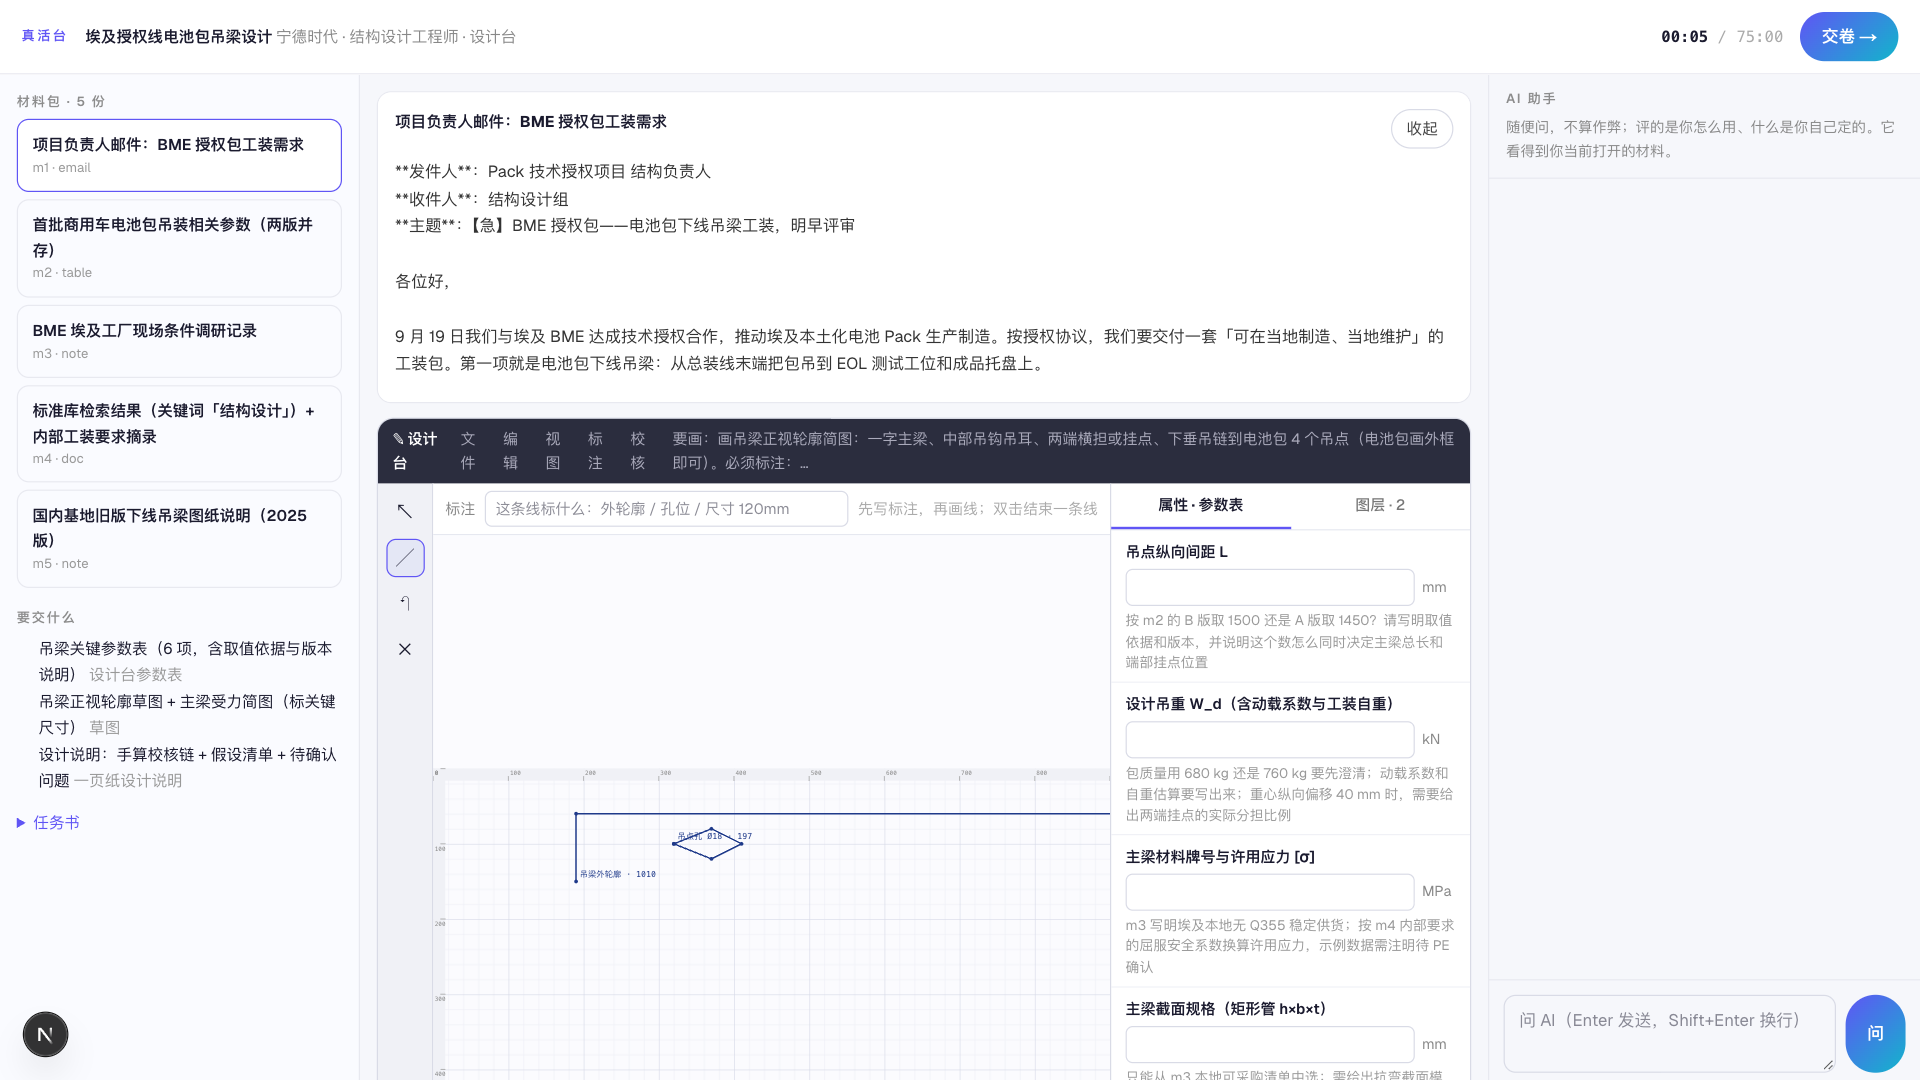
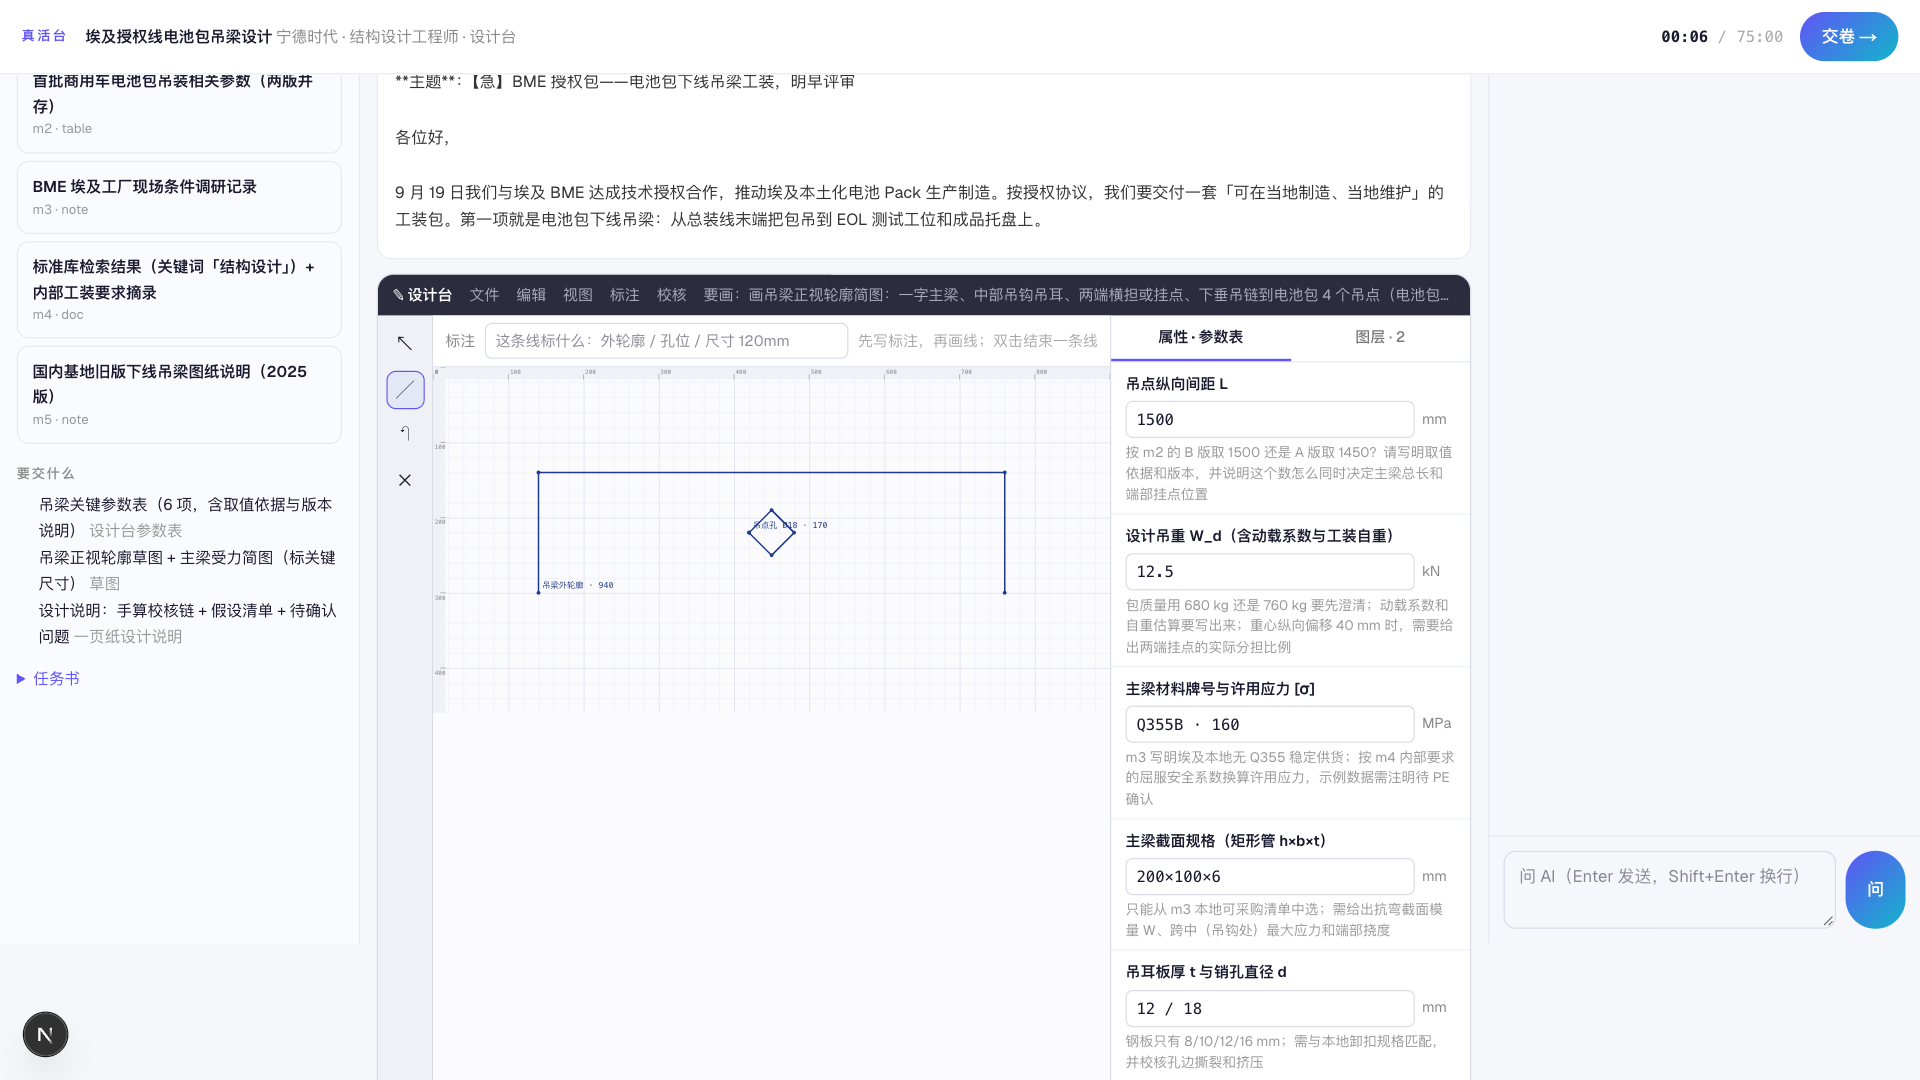
fix(设计台): 菜单不换行、画布按 viewBox 比例、参数输入带 data-param（录制 / 截图脚本用）

diff --git a/src/components/work/benches/DesignBench.tsx b/src/components/work/benches/DesignBench.tsx
@@ -23,9 +23,9 @@ export function DesignBench({ params, values, onParam, onParamDone, sketch, setS
   return (
     <div style={{ display: 'flex', flexDirection: 'column', height: '100%', background: '#f4f5f9', borderRadius: 14, overflow: 'hidden', border: '1px solid #d9dbe6' }}>
       {/* 顶部菜单条 */}
-      <div style={{ display: 'flex', alignItems: 'center', gap: 14, padding: '7px 12px', background: '#2b2d3e', color: '#d6d8e6', fontSize: 12.5 }}>
+      <div style={{ display: 'flex', alignItems: 'center', gap: 14, padding: '7px 12px', background: '#2b2d3e', color: '#d6d8e6', fontSize: 12.5, whiteSpace: 'nowrap' }}>
         <span style={{ fontWeight: 800, color: '#fff' }}>✎ 设计台</span>{['文件', '编辑', '视图', '标注', '校核'].map(m => <span key={m} style={{ color: '#aab' }}>{m}</span>)}
-        <span style={{ marginLeft: 'auto', color: '#aab' }}>{hint ? `要画：${hint.slice(0, 60)}${hint.length > 60 ? '…' : ''}` : '草图'}</span>
+        <span style={{ marginLeft: 'auto', color: '#aab', overflow: 'hidden', textOverflow: 'ellipsis' }}>{hint ? `要画：${hint.slice(0, 60)}${hint.length > 60 ? '…' : ''}` : '草图'}</span>
       </div>
       <div style={{ display: 'flex', flex: 1, minHeight: 420 }}>
         {/* 左工具栏 */}
@@ -35,13 +35,13 @@ export function DesignBench({ params, values, onParam, onParamDone, sketch, setS
           <button title="清空当前未完成的线" onClick={() => setCur([])} style={{ width: 32, height: 32, borderRadius: 8, border: '1px solid transparent', background: 'transparent', cursor: 'pointer', fontSize: 14 }}>✕</button>
         </div>
         {/* 画布 */}
-        <div style={{ flex: 1, display: 'flex', flexDirection: 'column', minWidth: 0 }}>
-          <div style={{ display: 'flex', alignItems: 'center', gap: 8, padding: '6px 10px', background: '#fff', borderBottom: '1px solid #e6e8f0', fontSize: 12.5 }}>
+        <div style={{ flex: 1, display: 'flex', flexDirection: 'column', minWidth: 0, background: '#fbfbfe' }}>
+          <div style={{ display: 'flex', alignItems: 'center', gap: 8, padding: '6px 10px', background: '#fff', borderBottom: '1px solid #e6e8f0', fontSize: 12.5, whiteSpace: 'nowrap', overflow: 'hidden' }}>
             <span style={{ color: '#888' }}>标注</span>
             <input value={label} onChange={e => setLabel(e.target.value)} placeholder="这条线标什么：外轮廓 / 孔位 / 尺寸 120mm" style={{ flex: 1, maxWidth: 360, border: '1px solid #d9dbe6', borderRadius: 6, padding: '4px 8px', fontSize: 12.5, outline: 'none' }} />
             <span style={{ color: '#aaa' }}>先写标注，再画线；双击结束一条线</span>
           </div>
-          <svg viewBox={`0 0 ${W} ${H}`} onClick={click} onDoubleClick={dbl} onMouseMove={e => setPos(toPt(e))} style={{ flex: 1, width: '100%', background: '#fbfbfe', cursor: tool === 'line' ? 'crosshair' : 'default', display: 'block' }}>
+          <svg viewBox={`0 0 ${W} ${H}`} preserveAspectRatio="xMinYMin meet" onClick={click} onDoubleClick={dbl} onMouseMove={e => setPos(toPt(e))} style={{ width: '100%', aspectRatio: `${W} / ${H}`, background: '#fbfbfe', cursor: tool === 'line' ? 'crosshair' : 'default', display: 'block' }}>
             <defs>
               <pattern id="g1" width={G} height={G} patternUnits="userSpaceOnUse"><path d={`M ${G} 0 L 0 0 0 ${G}`} fill="none" stroke="#e9ebf3" strokeWidth={1} /></pattern>
               <pattern id="g5" width={G * 5} height={G * 5} patternUnits="userSpaceOnUse"><rect width={G * 5} height={G * 5} fill="url(#g1)" /><path d={`M ${G * 5} 0 L 0 0 0 ${G * 5}`} fill="none" stroke="#d5d8e6" strokeWidth={1} /></pattern>
@@ -58,7 +58,7 @@ export function DesignBench({ params, values, onParam, onParamDone, sketch, setS
             </g>)}
             {cur.length > 0 && <g><polyline points={cur.map(p => p.join(',')).join(' ')} fill="none" stroke="#fa8c16" strokeWidth={2} strokeDasharray="5 4" />{cur.map((p, j) => <circle key={j} cx={p[0]} cy={p[1]} r={3} fill="#fa8c16" />)}</g>}
           </svg>
-          <div style={{ display: 'flex', gap: 16, padding: '5px 12px', background: '#2b2d3e', color: '#aab', fontSize: 11.5, fontFamily: mono }}>
+          <div style={{ display: 'flex', gap: 16, padding: '5px 12px', background: '#2b2d3e', color: '#aab', fontSize: 11.5, fontFamily: mono, marginTop: 'auto' }}>
             <span>X {pos[0]}  Y {pos[1]}</span><span>栅格 {G}</span><span>缩放 100%</span><span>{tool === 'line' ? '折线' : '选择'}</span><span style={{ marginLeft: 'auto' }}>{sketch.length} 条线{cur.length ? ` · 画着第 ${sketch.length + 1} 条（${cur.length} 点）` : ''}</span>
           </div>
         </div>
@@ -68,7 +68,7 @@ export function DesignBench({ params, values, onParam, onParamDone, sketch, setS
           <div style={{ flex: 1, overflow: 'auto' }}>
             {side === 'props' ? params.map(p => <div key={p.name} style={{ padding: '8px 12px', borderBottom: '1px solid #f0f1f6' }}>
               <div style={{ fontSize: 12.5, fontWeight: 600 }}>{p.name}</div>
-              <div style={{ display: 'flex', alignItems: 'center', gap: 6, marginTop: 4 }}><input value={values[p.name] || ''} onChange={e => onParam(p.name, e.target.value)} onBlur={() => onParamDone(p.name)} style={{ flex: 1, border: '1px solid #d9dbe6', borderRadius: 6, padding: '4px 8px', fontSize: 13, fontFamily: mono, outline: 'none' }} /><span style={{ fontSize: 12, color: '#888', minWidth: 28 }}>{p.unit}</span></div>
+              <div style={{ display: 'flex', alignItems: 'center', gap: 6, marginTop: 4 }}><input data-param={p.name} value={values[p.name] || ''} onChange={e => onParam(p.name, e.target.value)} onBlur={() => onParamDone(p.name)} style={{ flex: 1, border: '1px solid #d9dbe6', borderRadius: 6, padding: '4px 8px', fontSize: 13, fontFamily: mono, outline: 'none' }} /><span style={{ fontSize: 12, color: '#888', minWidth: 28 }}>{p.unit}</span></div>
               {p.hint && <div style={{ fontSize: 11.5, color: '#999', marginTop: 3, lineHeight: 1.5 }}>{p.hint}</div>}
             </div>) : (sketch.length ? sketch.map((l, i) => <div key={i} style={{ padding: '8px 12px', borderBottom: '1px solid #f0f1f6', fontSize: 12.5, display: 'flex', gap: 8, alignItems: 'center' }}><span style={{ width: 10, height: 10, background: '#1f3a8a', borderRadius: 2 }} /><span style={{ flex: 1 }}>{l.label || `L${i + 1}`}</span><span style={{ color: '#999', fontFamily: mono }}>{l.pts.length} 点 · {Math.round(len(l.pts))}</span></div>) : <div style={{ padding: 16, color: '#aaa', fontSize: 12.5 }}>还没有线。先写标注，在画布上点一下加点、双击结束。</div>)}
           </div>
